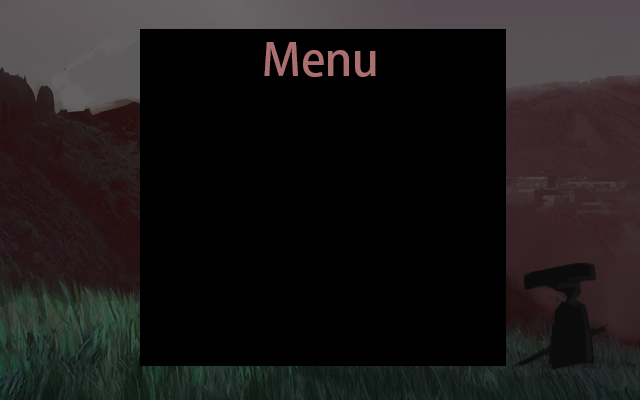
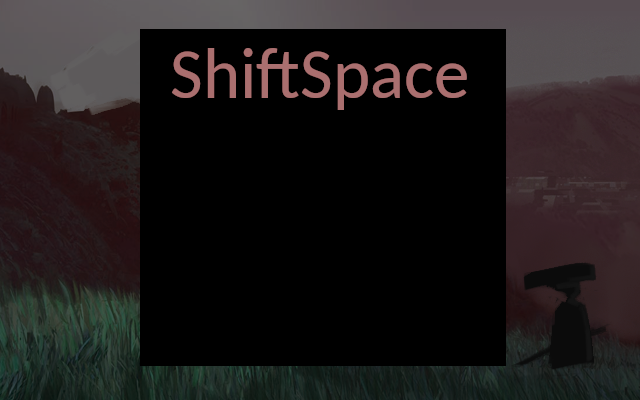
made slightly glitchy pause menu with controls

Changed region(s): [[0.25, 0.09, 0.75, 0.27]]

diff --git a/src/scenes/Menu.js b/src/scenes/Menu.js
@@ -16,9 +16,23 @@ class Menu extends Phaser.Scene
         this.background.setOrigin(0,0)
 
         keyF = this.input.keyboard.addKey(Phaser.Input.Keyboard.KeyCodes.F);
+        keySPACE = this.input.keyboard.addKey(Phaser.Input.Keyboard.KeyCodes.SPACE);
 
-        this.add.text(20, 20, "Game Menu");
-        this.add.text(20, 70, "Press F to switch scenes.");
+        let menuTextConfig =
+        {
+            fontFamily: "Courier",
+            fontSize: "14px",
+            color: "#FFFFFF",
+            align: "center",
+            padding:
+            {
+                top: 5,
+                bottom: 5
+            },
+        }
+
+        this.add.text(game.config.width/2, game.config.height/2, "Press SPACE to start game.", menuTextConfig).setOrigin(0.5, 0.5);
+        this.add.text(game.config.width/2, game.config.height/2 + 40, "Press H to see controls in-game.", menuTextConfig).setOrigin(0.5, 0.5);
 
         game.settings =
         {
@@ -29,6 +43,10 @@ class Menu extends Phaser.Scene
     update()
     {
         if ( Phaser.Input.Keyboard.JustDown(keyF) )
+        {
+            this.scene.start("level_One_Scene");
+        }
+        if ( Phaser.Input.Keyboard.JustDown(keySPACE) )
         {
             this.scene.start("level_One_Scene");
         }

diff --git a/src/scenes/Pause.js b/src/scenes/Pause.js
@@ -1,0 +1,34 @@
+class Pause extends Phaser.Scene
+{
+    constructor() {
+        super("pause_Scene");
+    }
+
+    preload()
+    {
+        this.load.image("pause_background", "./assets/background/pause.png");
+    }
+
+    create()
+    {
+        //create background
+        this.background = this.add.sprite(0, 0, "pause_background");
+        this.background.setOrigin(0,0);
+
+        console.log("paused");
+
+        //resume game
+        this.input.keyboard.on("keydown_H", function (event)
+        {
+            game.scene.stop("pause_Scene");
+            game.scene.run("level_One_Scene");
+            
+            console.log("here");
+        });
+    }
+
+    update()
+    {
+        //nothing here
+    }
+}

diff --git a/src/prefabs/Walking_Enemy.js b/src/prefabs/Walking_Enemy.js
@@ -129,11 +129,6 @@ class Walking_Enemy extends Phaser.Physics.Arcade.Sprite
                 this.scene.walking_enemy.play('enemy_walk');
            }
         }
-        else if (this.local_scene_variable.player.y - this.ATTACK_RANGE > this.y) //player is below the enemy
-        {
-            // if the player is below the enemy, the enemy should just keep walking so it doesn't just stand above the player
-            //only works within the attack range, so it's no very useful, but its kinda adorable so i'm leaving it
-        }
         else
         {
             //stop moving toward the player and attack

diff --git a/src/scenes/Level_One.js b/src/scenes/Level_One.js
@@ -170,6 +170,13 @@ class Level_One extends Phaser.Scene
         timerConfig.backgroundColor = "#4f0505";
         this.healthDisplay = this.add.text(20, 100, this.player.health, timerConfig);
         this.healthDisplay.setScrollFactor(0);
+
+        //set up pause menu
+        this.input.keyboard.on("keydown_H", function (event)
+        {
+            game.scene.pause("level_One_Scene");
+            game.scene.run("pause_Scene");
+        });
     }
 
     update()

diff --git a/index.html b/index.html
@@ -6,6 +6,7 @@
     <script src="./lib/phaser.js"></script>
     <script src="./src/scenes/Menu.js"></script>
     <script src="./src/scenes/Level_One.js"></script>
+    <script src="./src/scenes/Pause.js"></script>
     <script src="./src/scenes/Game_Over.js"></script>
     <script src="./src/Main.js"></script>
     <script src="./src/prefabs/Player.js"></script>

diff --git a/src/Main.js b/src/Main.js
@@ -5,7 +5,7 @@ let config =
     type: Phaser.CANVAS,
     width: 640, //1280
     height: 400, //800
-    scene: [ Menu, Level_One, Game_Over ],
+    scene: [ Menu, Level_One, Pause, Game_Over ],
     pixelArt: true,
 
     //set physics world properties
